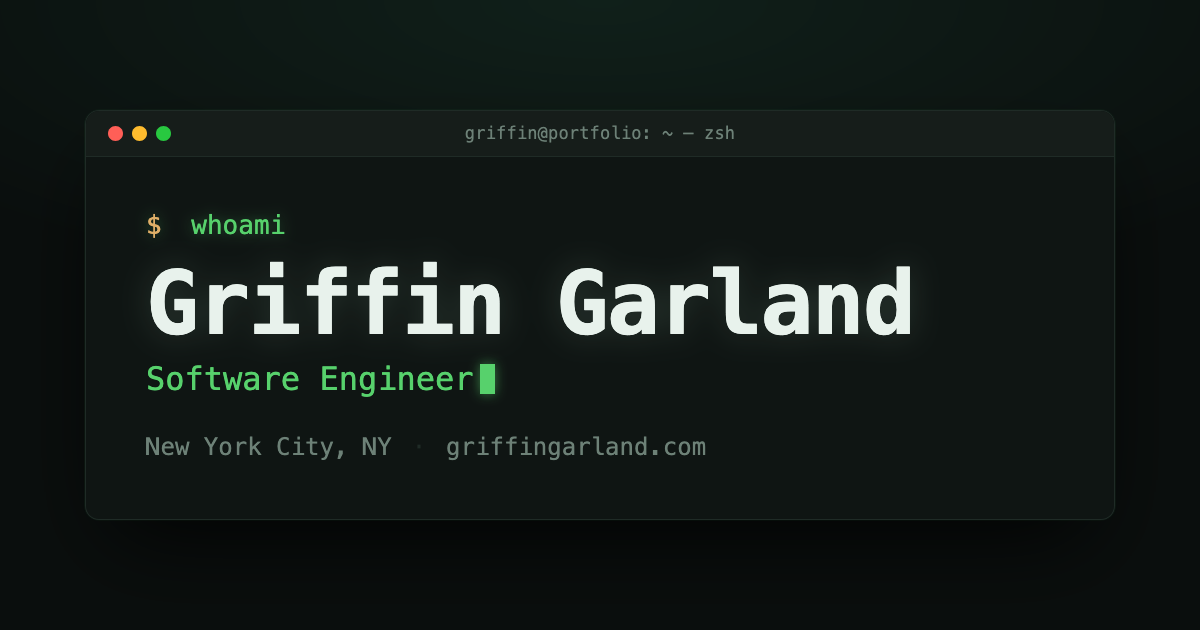
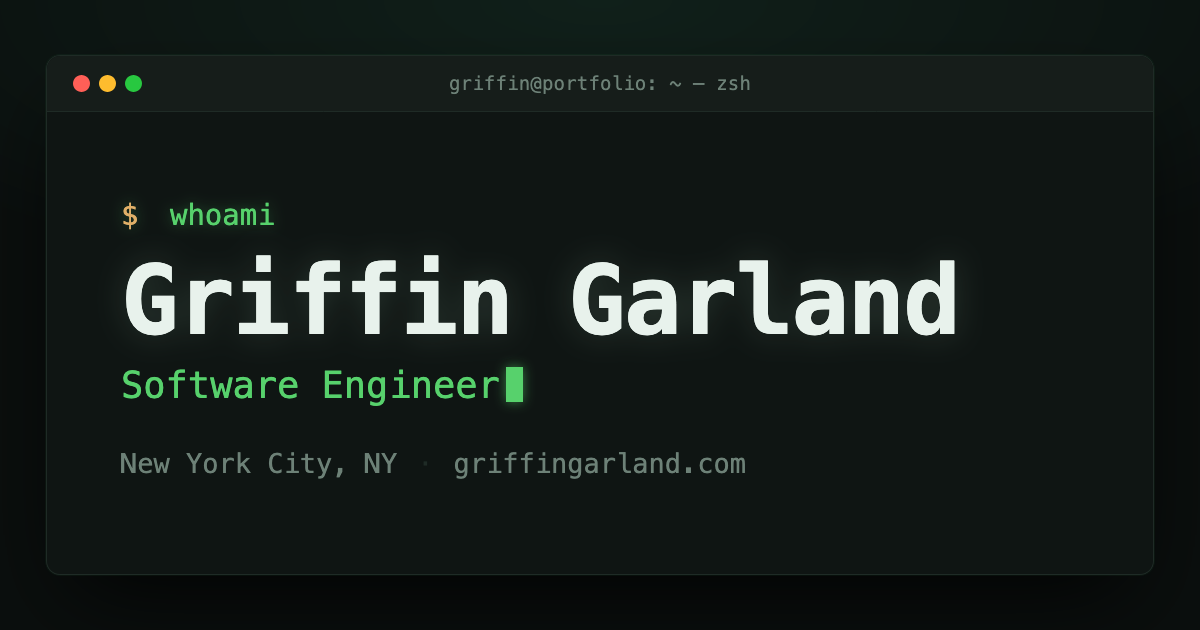
Scale up the link-preview card
The terminal panel sat small in the 1200x630 frame with a lot of dead
background around it. Widened it to 1108px and scaled the type to match,
so it reads at the size link previews actually render.

Heading is 96px: large enough to fill the frame, small enough that
"Griffin Garland" stays on one line within the available width.

diff --git a/og-src/card.html b/og-src/card.html
@@ -19,35 +19,35 @@
     font-family:var(--mono); display:flex; align-items:center; justify-content:center;
   }
   .window{
-    width:1030px; background:var(--panel);
+    width:1108px; background:var(--panel);
     border:1px solid var(--rule); border-radius:14px; overflow:hidden;
     box-shadow:0 0 0 1px rgba(87,209,108,.05), 0 40px 90px -30px rgba(0,0,0,.95);
   }
   .titlebar{
-    display:flex; align-items:center; gap:11px;
-    padding:15px 22px; background:var(--bar);
+    display:flex; align-items:center; gap:13px;
+    padding:19px 26px; background:var(--bar);
     border-bottom:1px solid var(--rule); position:relative;
   }
   .dots{display:flex;gap:9px}
-  .dots i{width:15px;height:15px;border-radius:50%;display:block}
+  .dots i{width:17px;height:17px;border-radius:50%;display:block}
   .r{background:#ff5f57}.y{background:#febc2e}.g{background:#28c840}
   .titletext{
     position:absolute;left:0;right:0;text-align:center;
-    color:var(--dim);font-size:17px;letter-spacing:.01em;
+    color:var(--dim);font-size:19px;letter-spacing:.01em;
   }
-  .screen{padding:52px 60px 58px}
-  .line{color:var(--accent);font-size:26px;text-shadow:0 0 14px rgba(87,209,108,.35)}
+  .screen{padding:86px 74px 94px}
+  .line{color:var(--accent);font-size:29px;text-shadow:0 0 14px rgba(87,209,108,.35)}
   .prompt{color:var(--amber);margin-right:14px}
   h1{
-    color:var(--fg-strong); font-size:88px; line-height:1.05;
-    letter-spacing:-.02em; margin:16px 0 10px;
+    color:var(--fg-strong); font-size:96px; line-height:1.05;
+    letter-spacing:-.02em; margin:18px 0 12px;
     text-shadow:0 0 30px rgba(200,255,220,.15);
   }
-  .role{color:var(--accent);font-size:32px;margin-bottom:34px}
-  .meta{color:var(--dim);font-size:24px;display:flex;gap:20px;align-items:center}
+  .role{color:var(--accent);font-size:37px;margin-bottom:40px}
+  .meta{color:var(--dim);font-size:27px;display:flex;gap:20px;align-items:center}
   .sep{color:var(--rule)}
   .cursor{
-    display:inline-block;width:15px;height:30px;background:var(--accent);
+    display:inline-block;width:17px;height:35px;background:var(--accent);
     vertical-align:-4px;margin-left:6px;box-shadow:0 0 12px rgba(87,209,108,.55);
   }
 </style></head>
